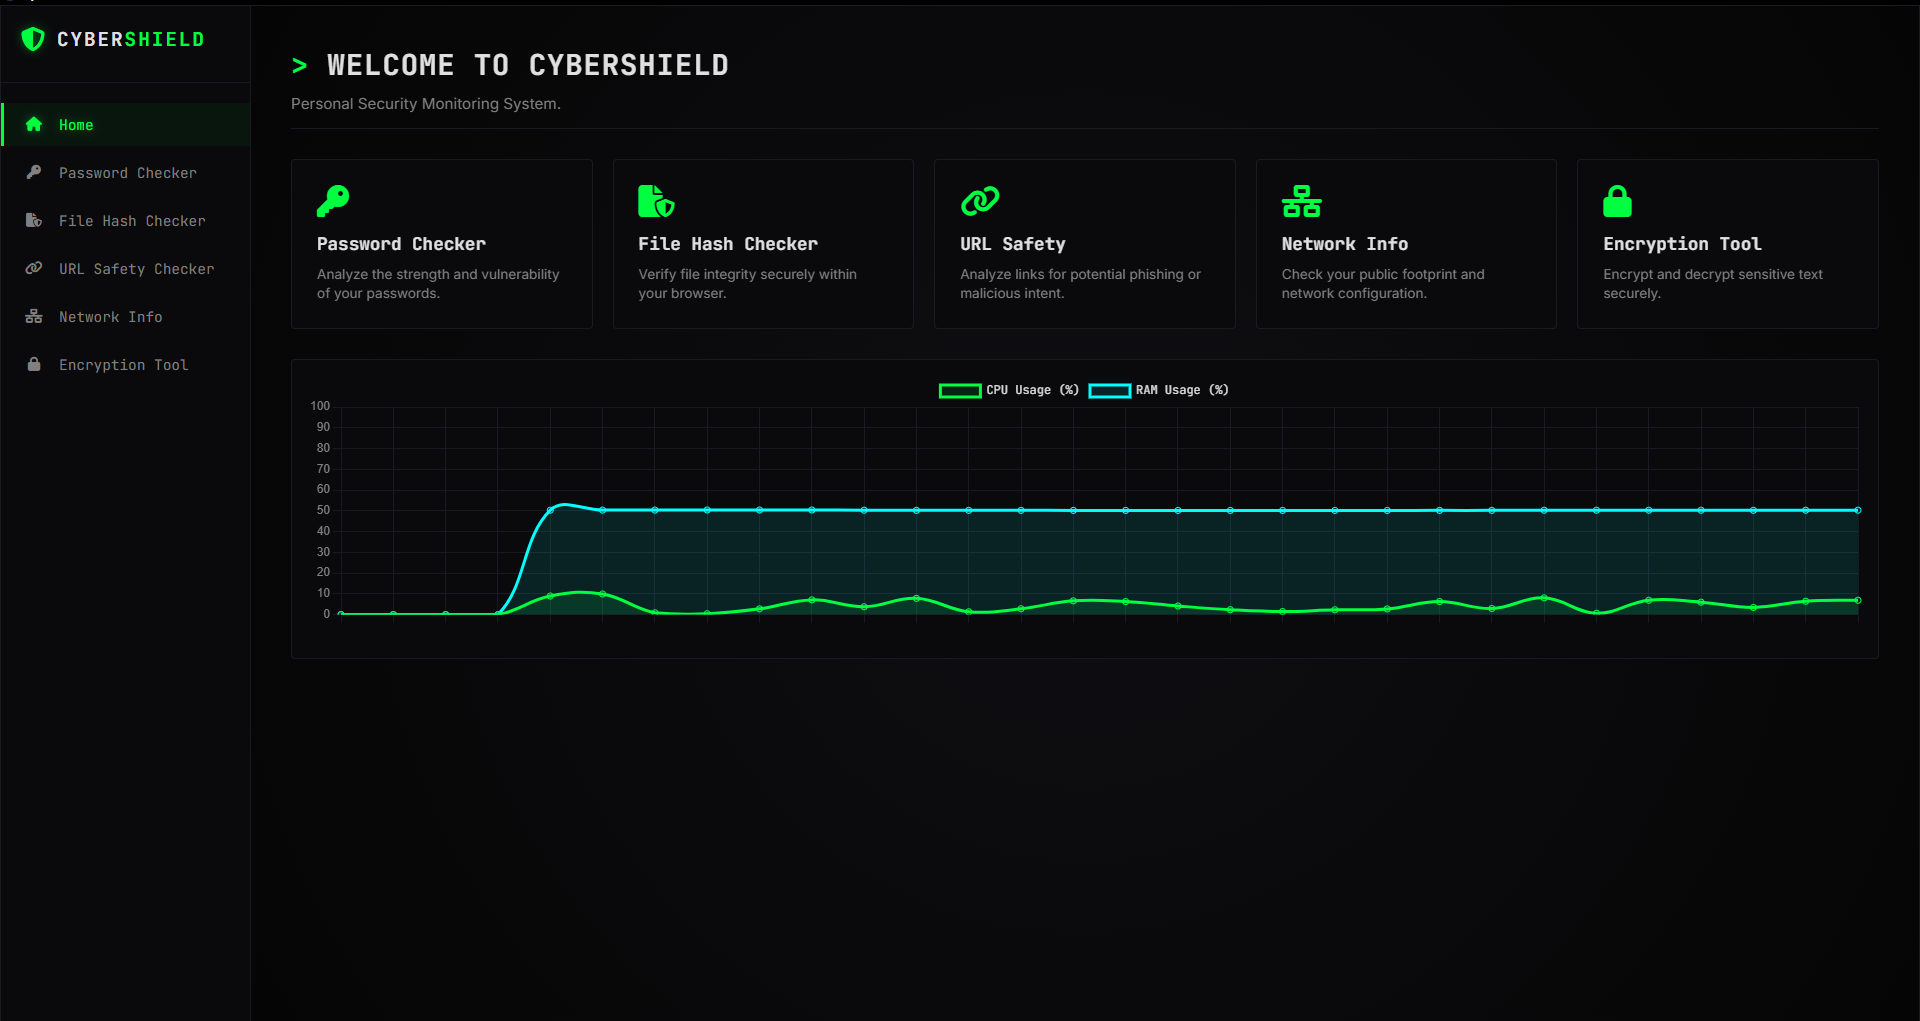
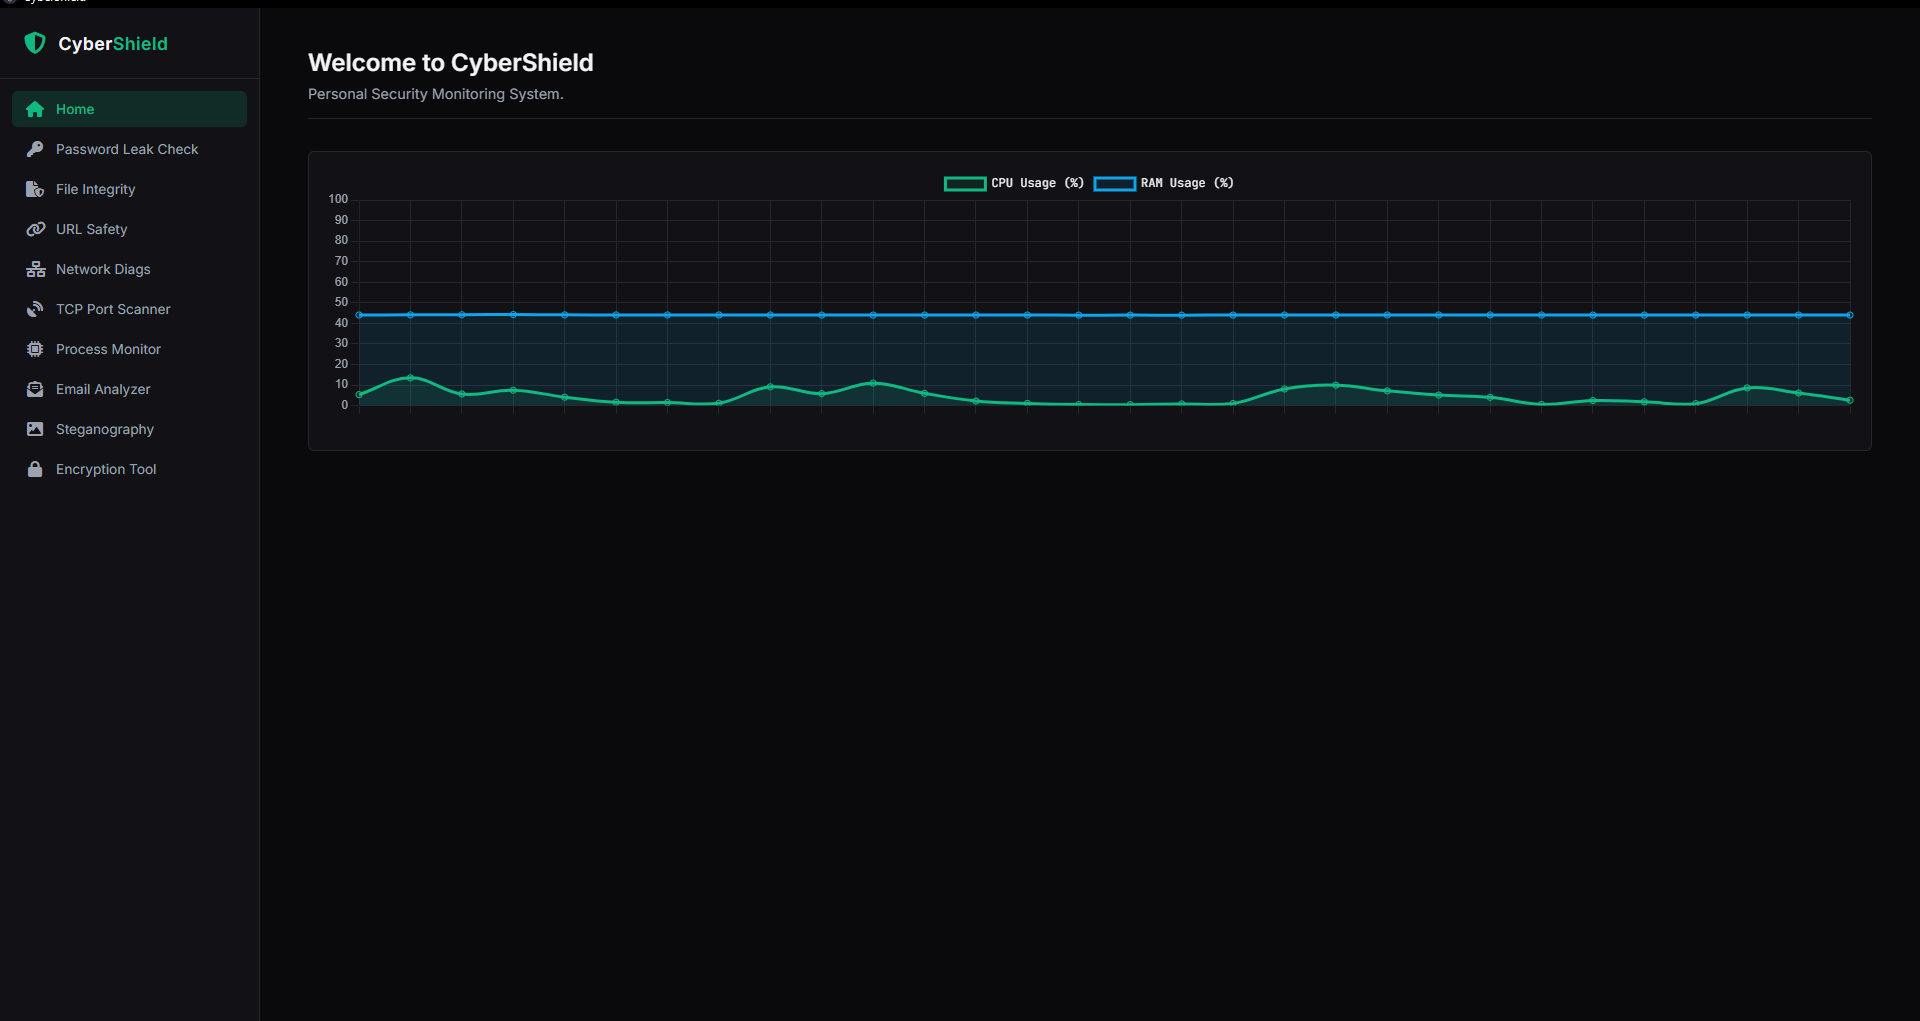
fix: Fix tab overlapping bug and add custom modern scrollbars

diff --git a/style.css b/style.css
@@ -23,6 +23,22 @@
     --radius: 6px; /* Smooth, modern radius */
 }
 
+/* Custom Webkit Scrollbar for Modern Look */
+::-webkit-scrollbar {
+    width: 8px;
+    height: 8px;
+}
+::-webkit-scrollbar-track {
+    background: var(--bg-base);
+}
+::-webkit-scrollbar-thumb {
+    background: var(--border-subtle);
+    border-radius: 4px;
+}
+::-webkit-scrollbar-thumb:hover {
+    background: var(--text-muted);
+}
+
 * {
     margin: 0;
     padding: 0;
@@ -136,9 +152,8 @@ button, input, textarea, a, .nav-links li, .file-drop-area, .copy-btn {
     animation: fadeIn 0.6s forwards;
 }
 
-.tool-section.hidden {
+.hidden {
     display: none !important;
-    opacity: 0;
 }
 
 @keyframes fadeIn {